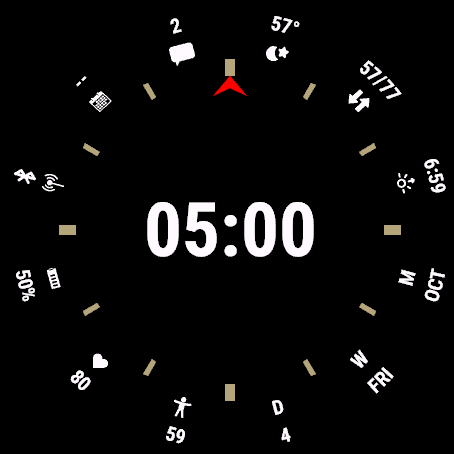
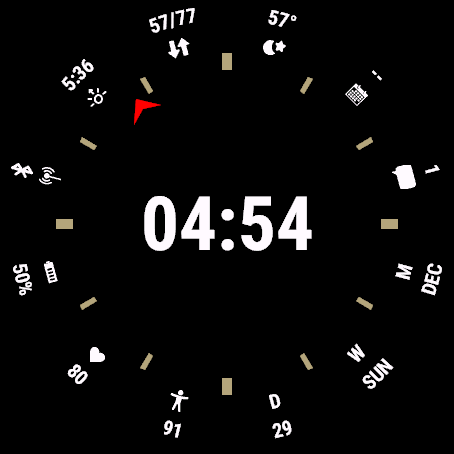
Re-order data fields, bump version

diff --git a/font_resources/README.md b/font_resources/README.md
@@ -3,8 +3,13 @@
 * icon png, 256x256
 * 11 per row, font size is 24
 * import and transform the glyph svg files using birdfont
-* export to ttf
-* use bmfont or FontForge to convert to fnt and png files
+* export to ttf in birdfont
+* use [bmfont](https://www.angelcode.com/products/bmfont/) (with wine64) to convert to fnt and png files
+  per the [Core Topics Fonts Section](https://developer.garmin.com/connect-iq/core-topics/resources/)
+* `cp font_resources/icons_24_0.png resources/fonts/icons_24_0.png`
+* `cp font_resources/icons_24.fnt resources/fonts/icons_24.fnt`
+* Manually patch `resources/fonts/icons_24.fnt`: TODO fixme
+  - `face="icons_24"`
 
 ## icons
 

diff --git a/README.md b/README.md
@@ -6,7 +6,7 @@ Always-on Garmin watchface for Tactix 7 AMOLED.
 
 ![always_on_mode.png](doc/always_on_mode.png)
 
-24 hour peak luminance usage: 4.90%
+24 hour peak luminance usage: 5.02%
 
 ## Full Power Mode
 
